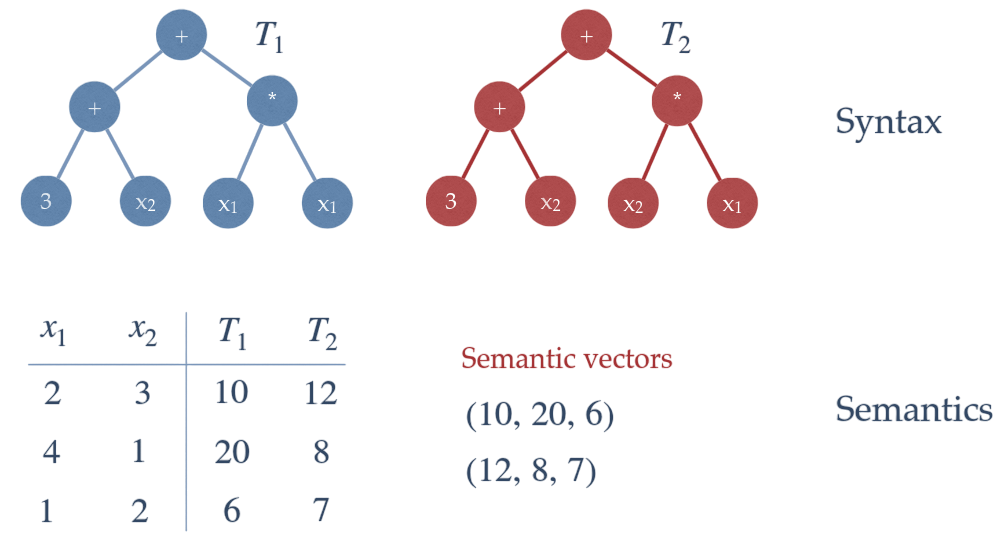
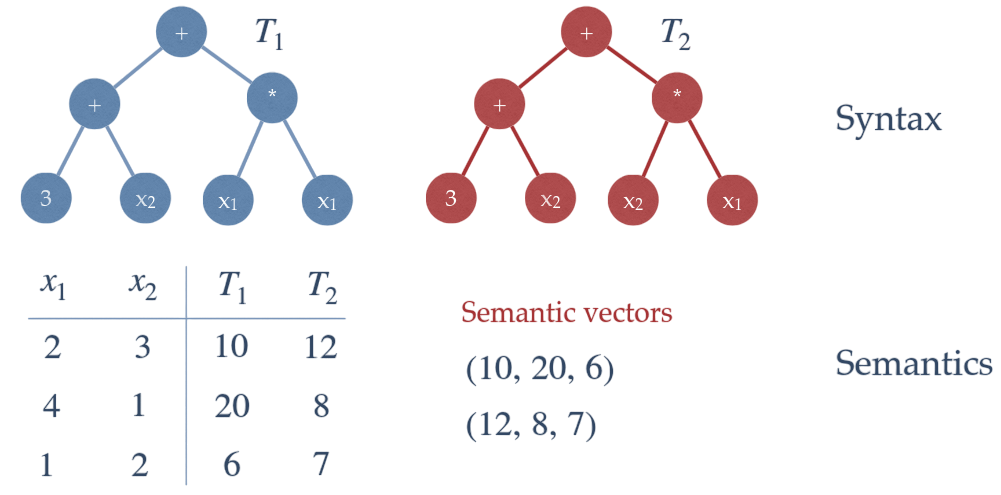
keep going on with gmo notes

diff --git a/Global and Multi-Objective Optimisation/chapters/ch7.tex b/Global and Multi-Objective Optimisation/chapters/ch7.tex
@@ -1,0 +1,219 @@
+\chapter{Estimation of Distribution Algorithms}\label{ch:eda}
+
+\section{From Implicit to Explicit Models}
+
+Traditional evolutionary algorithms, such as Genetic Algorithms (GAs), employ operators like selection, crossover, and mutation to navigate the search space. Collectively, these operators induce an \textit{implicit} model of solution quality: selection favors promising individuals, while crossover and mutation explore their neighborhoods to discover new candidates. However, this implicit modeling limits the algorithm's ability to directly capture and exploit the structure of high-quality solutions.
+
+In contrast, \bfit{Estimation of Distribution Algorithms (EDAs)}, also referred to as \bfit{Probabilistic Model-Building Genetic Algorithms (PMBGAs)}, adopt a fundamentally different strategy. Rather than relying on traditional genetic operators, EDAs construct an \textit{explicit} probabilistic model that characterizes the distribution of promising solutions identified thus far. This model is then used to sample a new population of candidate solutions, which subsequently informs the next iteration of model refinement. The evolutionary process is thereby reframed as a cycle of model construction, sampling, and iterative improvement.
+
+\subsection{Model Fitting via Classification}
+
+A principled approach to explicit modeling is to recast the problem as a classification task. Here, the objective is to train a machine learning classifier to discriminate between "good" and "bad" regions of the search space, using the fitness values of individuals in the current population as labels.
+
+\subsubsection{Learnable Evolution Models}
+The \bfit{Learnable Evolution Model (LEM)} framework formalizes this classification-based approach. Its iterative procedure can be summarized as follows:
+\begin{enumerate}
+    \item Execute several standard evolutionary steps to generate a diverse population.
+    \item Partition the population into two classes according to fitness: a "fit" set and an "unfit" set.
+    \item Train a classifier (e.g., decision tree, support vector machine, or neural network) to distinguish between fit and unfit individuals. This classifier serves as an explicit model of high-fitness regions in the search space.
+    \item Eliminate unfit individuals and generate new candidates by sampling from regions identified by the classifier as "fit."
+    \item Repeat this process until a predefined termination criterion is satisfied.
+\end{enumerate}
+
+\begin{figure}[H]
+    \centering
+    \includegraphics[width=0.7\textwidth]{assets/lem-classification.png}
+    \caption{\centering The classification process in a Learnable Evolution Model.}
+    \label{fig:lem_classification}
+\end{figure}
+
+\vspace{-1.5em}
+
+\subsubsection{Generating New Individuals}
+A key challenge in this approach is how to generate new individuals using the trained model. This depends on whether the model is \bfit{generative} or \bfit{discriminative}.
+\begin{itemize}
+    \item \bfit{Generative models} can directly produce new samples that conform to the learned data distribution.
+    \item \bfit{Discriminative models}, such as most classifiers, can only determine whether a given, existing individual belongs to the "fit" class or not.
+\end{itemize}
+Since classifiers are typically discriminative, two main sampling techniques are used:
+
+\begin{itemize}
+    \item \textbf{Rejection Sampling}: new individuals are generated randomly from the entire search space and are then passed to the classifier. If the classifier labels an individual as "fit," it is accepted into the new population; otherwise, it is rejected, and the process repeats. This method is simple but can be highly \textit{inefficient}, especially late in the search when the "fit" region may be very small compared to the entire space, leading to a high rejection rate.
+
+\begin{figure}[H]
+    \centering
+    \includegraphics[width=0.65\textwidth]{assets/rejection-sampling.png}
+    \label{fig:rejection_sampling}
+\end{figure}
+
+    \vspace{-1.5em}
+
+    \item \textbf{Region-Based Sampling}: New individuals are generated by sampling directly from regions of the search space identified as "fit" by the classifier. For classifiers such as decision trees, these regions correspond to explicit rules or hyper-rectangles. Sampling is restricted to these regions, improving efficiency by avoiding the generation of individuals from unpromising areas. The effectiveness of this method depends on the classifier's ability to define such regions.
+    
+    \begin{figure}[H]
+        \centering
+        \includegraphics[width=0.55\textwidth]{assets/region-based-sampling.png}
+        \label{fig:region_based_sampling}
+    \end{figure}
+
+    \vspace{-1.5em}
+\end{itemize}
+
+
+
+\section{Probabilistic Model-Based EDAs}
+Instead of using a classifier, the most common family of EDAs builds and samples from an explicit \bfit{probability distribution} that represents the distribution of promising individuals in the population.
+
+\subsection{Representing the Distribution of Promising Solutions}
+The core task of an EDA is to build a probabilistic model that captures the features of high-performing individuals. The primary challenge lies in creating a representation that is both expressive enough to guide the search effectively and compact enough to be computationally feasible. A full, explicit joint probability distribution is almost always intractable due to the curse of dimensionality. Several strategies have been developed to address this.
+
+\subsubsection{Histogram-Based Models}
+A conceptually simple way to model the distribution is to create a multi-dimensional histogram. The search space is partitioned into a grid of discrete hypercubes (or "bins"), and the model stores the average fitness or count of promising solutions that fall into each bin. New solutions can then be sampled from the bins with higher scores.
+
+However, this method's utility is severely limited by its exponential complexity. If each of the $n$ dimensions of the search space is divided into just $d$ intervals, the total number of hypercubes is $d^n$. This number grows so rapidly that the approach becomes unfeasible even for a small number of dimensions, necessitating more compact representations.
+
+\subsubsection{Gaussian Mixture Models for Continuous Spaces}
+For problems in continuous domains (e.g., $\mathbb{R}^n$), a more scalable approach is to model the probability distribution of good solutions as a \bfit{Gaussian Mixture Model (GMM)}. Instead of a discrete grid, the distribution is represented as the sum of a fixed number, $b$, of multivariate Gaussian distributions. This allows the model to represent multiple promising regions in the search space simultaneously.
+
+A full $n$-dimensional Gaussian distribution is defined by:
+\begin{itemize}
+    \item A mean vector $\vec{\mu}$ of length $n$.
+    \item A covariance matrix $\Sigma$ of size $n \times n$, which captures the dependencies between variables.
+\end{itemize}
+While more compact than a histogram, the space required to store the full covariance matrix for each component is $n^2$. The total space complexity to represent the distribution as a sum of $b$ Gaussians is $b(n + n^2)$, which can still be prohibitive if all variable interactions are modeled.
+
+\subsubsection{Marginal Distribution Models}
+To drastically reduce complexity, many EDAs adopt a powerful simplifying assumption: that the variables (genes) are \bfit{mutually independent}. This assumption allows the high-dimensional joint probability distribution to be factorized into the product of $n$ one-dimensional \bfit{marginal distributions}.
+$$ P(x_1, \ldots, x_n) = P_1(x_1) \cdot P_2(x_2) \cdots P_n(x_n) $$
+This is the foundation of \bfit{univariate EDAs}. Under this model, the complexity of a Gaussian mixture is greatly reduced. Each of the $n$ marginal distributions is a 1D Gaussian mixture, which only requires storing a mean and a variance for each of its $b$ components. The total space complexity falls from $O(b n^2)$ to a much more manageable $O(b n)$.
+
+\subsubsection{Models for Finite Discrete Spaces}
+The concept of using marginal distributions extends naturally to discrete domains.
+\begin{itemize}
+    \item If a gene can take one of $k$ possible discrete values, its marginal distribution can be represented by a probability vector of length $k-1$.
+    \item For the very common case of \bfit{Boolean spaces} ($\{0,1\}^n$), the model is particularly simple. The marginal distribution for each gene can be described by a single value: the probability of that gene being 1. The entire probabilistic model is thus captured by a single $n$-dimensional vector of probabilities, which is extremely compact.
+\end{itemize}
+
+% This figure combines the four concepts from your slide into one.
+% You would need to crop the original image into four separate files.
+\begin{figure}[H]
+    \centering
+    \begin{minipage}[t]{0.48\textwidth}
+        \centering
+        \includegraphics[width=\linewidth]{assets/eda-histogram.png}
+        \subcaption{Histogram-based model.}
+    \end{minipage}%
+    \hfill
+    \begin{minipage}[t]{0.48\textwidth}
+        \centering
+        \includegraphics[width=\linewidth]{assets/eda-gaussian.png}
+        \subcaption{Gaussian Mixture Model.}
+    \end{minipage}
+    
+    \vspace{0.5cm}
+    
+    \begin{minipage}[t]{0.48\textwidth}
+        \centering
+        \includegraphics[width=\linewidth]{assets/eda-marginal.png}
+        \subcaption{Marginal distributions from a joint distribution.}
+    \end{minipage}%
+    \hfill
+    \begin{minipage}[t]{0.48\textwidth}
+        \centering
+        \includegraphics[width=\linewidth]{assets/eda-discrete.png}
+        \subcaption{Marginal distributions for a finite discrete space.}
+    \end{minipage}
+    \caption{Four different approaches to modeling the distribution of promising solutions in EDAs.}
+    \label{fig:eda_distribution_models}
+\end{figure}
+
+\vspace{-1em}
+
+\subsection{Univariate EDAs}
+\bfit{Univariate EDAs} adopt a standard approach in which the high-dimensional distribution over all genes is simplified by marginalizing everything to one dimension by modeling only the distribution of each gene individually. This means we are making a strong assumption: the value of each gene can be determined independently from the values of the other genes. While this independence assumption is often not strictly true in real-world problems, it allows for very simple and computationally efficient algorithms. We will examine two classic univariate EDA algorithms:
+\begin{itemize}
+    \item \bfit{Population-Based Incremental Learning (PBIL)}
+    \item \bfit{Compact Genetic Algorithm (cGA)}
+\end{itemize}
+
+\subsubsection{Population-Based Incremental Learning (PBIL)}
+
+\bfit{Population-Based Incremental Learning (PBIL)} is a foundational univariate EDA that iteratively refines a probabilistic model to guide the search for optimal solutions. 
+
+For a problem of dimension $n$, PBIL maintains a vector of marginal distributions $D_1, D_2, \ldots, D_n$. The initial distribution is typically uniform. At each iteration:
+
+\begin{itemize}
+    \item A population of new individuals is generated by independently sampling each gene $j$ from $D_j$.
+    \item The $b$ fittest individuals are selected from the population (truncated selection).
+    \item For each gene $j$, let $N_j$ denote the empirical distribution of gene $j$ among the $b$ selected individuals.
+    \item The probability vector is updated towards the observed distribution in the selected set:
+    $$
+        D_j \leftarrow (1-\alpha) D_j + \alpha N_j
+    $$
+    where $\alpha \in [0,1]$ is a learning rate that controls the speed of adaptation.
+\end{itemize}
+
+This process is repeated until a stopping criterion is met.
+
+Population-Based Incremental Learning (PBIL) can be \bfit{extended to continuous domains}, such as $\mathbb{R}^n$, by representing each marginal distribution as a Gaussian distribution parameterized by a mean $\mu_{D_j}$ and a variance $\sigma^2_{D_j}$. After the selection step, for each gene $j$, the sample mean $\mu_{N_j}$ and sample variance $\sigma^2_{N_j}$ are computed from the selected individuals:
+$$
+\mu_{N_j} = \frac{1}{|P|} \sum_{P_i \in P} P_{i,j}
+\qquad
+\sigma^2_{N_j} = \frac{1}{|P|-1} \sum_{P_i \in P} (P_{i,j} - \mu_{N_j})^2
+$$
+
+The parameters of the Gaussian are then updated according to the following rules:
+$$
+    \mu_{D_j} \leftarrow (1-\alpha)\mu_{D_j} + \alpha \mu_{N_j}
+,\qquad 
+    \sigma^2_{D_j} \leftarrow (1-\alpha)\sigma^2_{D_j} + \alpha \sigma^2_{N_j}
+$$
+This approach enables PBIL to adapt both the central tendency and the dispersion of each marginal distribution, thereby facilitating efficient exploration and exploitation in continuous search spaces.
+
+PBIL can also be extended to discrete spaces with more than two values per gene by representing each marginal as a categorical distribution and updating each probability component accordingly. In all cases, the learning rate $\alpha$ allows for gradual adaptation, balancing exploration and exploitation.
+
+\subsubsection{Compact Genetic Algorithm (cGA)}
+
+The \bfit{Compact Genetic Algorithm (cGA)} is a streamlined EDA designed for Boolean search spaces. Unlike traditional genetic algorithms, cGA does not maintain an explicit population. Instead, it iteratively updates a probability vector through pairwise competitions.
+
+\begin{description}
+    \item[1. Probability Vector:] Maintain a vector $D$, where $D_j$ is the probability of gene $j$ being \texttt{1}.
+    \item[2. Sampling:] At each iteration, sample two individuals, $P_i$ and $P_k$, independently from $D$.
+    \item[3. Competition:] Evaluate $P_i$ and $P_k$ and identify the winner ($U$) and loser ($V$) based on fitness.
+    \item[4. Update:] For each gene $j$ where $U_j \neq V_j$, adjust $D_j$ by a small step $1/d$ such that:
+    \begin{align*}
+        &\text{If } U_j = 1 \text{ and } V_j = 0: \quad D_j \leftarrow D_j + 1/d \\
+        &\text{If } U_j = 0 \text{ and } V_j = 1: \quad D_j \leftarrow D_j - 1/d
+    \end{align*}
+\end{description}
+
+Repeat this process for a fixed number of iterations or until convergence. The cGA thus efficiently evolves the probability vector to represent promising solutions without explicitly storing a population.
+
+\subsection{Issues of Univariate EDAs and Beyond}
+
+Univariate EDAs assume that the distribution of each gene can be found independently from all the other genes: they do not model any linkage or interaction between genes. While this assumption simplifies the model, it is often unrealistic: in many real-world problems, genes interact in complex ways, and optimizing them independently is not effective.
+
+\begin{itemize}
+    \item \textbf{Gene independence is rarely true:} If genes were truly independent, we could optimize each one separately. In practice, dependencies between genes are common and important.
+    \item \textbf{Local optima:} Because univariate EDAs cannot capture these dependencies, they may get stuck in local optima---situations where changing a single gene does not improve the solution, but changing several together would.
+    \item \textbf{Need for multivariate models:} To address this, \bfit{multivariate EDAs} have been developed. These use more advanced probabilistic models that can represent and exploit dependencies between variables, allowing for more effective search in complex landscapes.
+\end{itemize}
+
+One of the most well-known multivariate EDAs is the \bfit{Bayesian Optimization Algorithm (BOA)}. Unlike PBIL, which uses marginal distributions, BOA employs a Bayesian network to model dependencies between genes. This network is used to generate new samples and is updated at each generation.
+
+\begin{tipsblock}[BOA: Further Reading]
+
+    The following paper \cite{Pelikan1999} describes the BOA algorithm:
+
+    \vspace{0.5em}
+
+    \begin{center}
+        Pelikan, Martin, David E. Goldberg, and Erick Cantú-Paz. 
+
+        \textit{``BOA: The Bayesian optimization algorithm.''}
+
+        Proceedings of the genetic and evolutionary computation conference GECCO-99.
+        
+        Vol. 1. 1999.
+    \end{center}
+\end{tipsblock}

diff --git a/Global and Multi-Objective Optimisation/chapters/ch6.tex b/Global and Multi-Objective Optimisation/chapters/ch6.tex
@@ -6,8 +6,8 @@ Traditional Genetic Programming operators, such as subtree crossover and mutatio
 
 \section{Geometric Operators on Metric Spaces}
 
-The foundation of GSGP lies in defining the space of solutions as a \bfit{metric space}. A metric space is a set $S$ equipped with a distance function (or metric) $d: S \times S \to \mathbb{R}^+$, which satisfies four key properties for any $x, y, z \in S$:
-\begin{itemize}
+The foundation of GSGP lies in defining the space of solutions as a \bfit{metric space}. A metric space is a set $S$ equipped with a \bfit{distance function} (or metric) $d: S \times S \to \mathbb{R}^+$, which satisfies four key properties for any $x, y, z \in S$:
+\begin{itemize}[noitemsep]
     \item \textbf{Identity:} $d(x, y) = 0 \iff x = y$ The distance is zero if and only if the points are identical.
     \item \textbf{Symmetry:} $d(x, y) = d(y, x)$ The distance from x to y is the same as from y to x.
     \item \textbf{Non-negativity:} $d(x, y) \ge 0$ Distance is always non-negative.
@@ -16,16 +16,16 @@ The foundation of GSGP lies in defining the space of solutions as a \bfit{metric
 
 Within a metric space, we can define geometric concepts like segments and balls:
 \begin{itemize}
-    \item The \bfit{segment} $S(x, y)$ between two points $x$ and $y$ is the set of all points $z$ for which the triangular inequality holds with equality:
+    \item A \bfit{segment} $S(x, y)$ between two points $x$ and $y$ is the set of all points $z$ for which holds:
     $$ S(x, y) = \{z \in S \mid d(x, z) + d(z, y) = d(x, y)\} $$
-    \item The \bfit{ball} $B(x, r)$ of radius $r$ centered at a point $x$ is the set of all points $y$ whose distance from $x$ is at most $r$:
+    \item A \bfit{ball} $B(x, r)$ of radius $r$ centered in $x$ is the set of all points $y$ whose distance from $x$ is at most $r$:
     $$ B(x, r) = \{y \in S \mid d(x, y) \le r\} $$
 \end{itemize}
 
 \begin{figure}[H]
     \centering
     \includegraphics[width=0.6\textwidth]{assets/metric-space.png}
-    \caption{\centering Segments and balls in different metric spaces. Left: In Euclidean space ($\mathbb{R}^2$), the segment is a line and the ball is a circle. Right: In the space of binary strings $\{0,1\}^3$ with Hamming distance, the segment between two points is the set of strings on the minimal path along the hypercube's edges, and the ball $B(x,1)$ is the set containing $x$ and its immediate neighbors.}
+    \caption{\centering Segments and balls in different metric spaces (Euclidean, ($\mathbb{R}^2$) and Hamming, $\{0,1\}^3$)}
     \label{fig:metric_spaces}
 \end{figure}
 
@@ -51,21 +51,29 @@ The standard subtree crossover in GP is \bfit{not geometric}. A simple counterex
 
 \begin{figure}[H]
     \centering
-    % \includegraphics[width=0.8\textwidth]{assets/gp-not-geometric.png}
-    \caption{\centering An example demonstrating that standard GP subtree crossover is not geometric. Crossing a tree with itself can produce a new tree, which is impossible for a true geometric operator.}
+    \includegraphics[width=0.7\textwidth]{assets/gp-not-geometric.png}
+    \caption{\centering An example demonstrating that standard GP subtree crossover is not geometric. Crossing a tree with itself produces a new tree, which is impossible for a geometric operator.}
     \label{fig:gp_not_geometric}
 \end{figure}
 
-\section{From Syntactic to Semantic Space}
-The issue with standard GP operators is that they are defined on the \bfit{syntactic space} (the space of all possible program trees), but what we truly care about is the \bfit{semantic space} (the space of all possible program behaviors).
-The \bfit{semantics} of a program can be defined as the vector of its outputs produced for a given finite set of fitness cases (inputs).
+\section{Geometric Semantic Operators}
+
+Standard GP operators act on the \bfit{syntactic space} (all possible program trees), but what matters is the \bfit{semantic space} (all possible program behaviors).
+A program's \bfit{semantics} are its output vector on a given set of fitness cases (inputs).
+
+\vspace{-0.5em}
 
 \begin{figure}[H]
     \centering
-    \includegraphics[width=0.8\textwidth]{assets/syntax-semantics.png}
+    \includegraphics[width=0.65\textwidth]{assets/syntax-semantics.png}
+
+    \vspace{-0.5em}
+
     \caption{\centering The distinction between syntax and semantics. Two different trees, $T_1$ and $T_2$ (different syntax), produce two different vectors of outputs for the same set of inputs (different semantics).}
     \label{fig:syntax_vs_semantics}
 \end{figure}
+
+\vspace{-1.5em}
 
 The core idea of GSGP is to design operators that are geometric in the \textit{semantic space}, not the syntactic one. This requires:
 \begin{enumerate}
@@ -73,21 +81,25 @@ The core idea of GSGP is to design operators that are geometric in the \textit{s
     \item Designing new crossover and mutation operators that construct an offspring tree whose \textit{semantics} are guaranteed to lie on the segment between the parent semantics (for crossover) or in a ball around the parent's semantics (for mutation).
 \end{enumerate}
 
-\section{Geometric Semantic Operators}
-
 \subsection{Geometric Semantic Crossover (GSC)}
 GSC generates an offspring $T_{off}$ whose semantics are a linear interpolation of the semantics of its parents, $T_1$ and $T_2$. This is achieved by constructing the offspring tree as:
 $$
     T_{off} = (R \times T_1) + ((1 - R) \times T_2)
 $$
-Where $R$ is a randomly generated program tree whose outputs are guaranteed to be in the range $[0, 1]$. This construction ensures that for any input, the output of $T_{off}$ will be on the segment between the outputs of $T_1$ and $T_2$.
+Where $R$ is a randomly generated program tree whose outputs are guaranteed to be in the range $[0, 1]$. For any input, the output of $T_{off}$ will be on the segment between the outputs of $T_1$ and $T_2$.
+
+\vspace{-0.5em}
 
 \begin{figure}[H]
     \centering
-    \includegraphics[width=0.9\textwidth]{assets/gsc-crossover.png}
-    \caption{\centering The structure of Geometric Semantic Crossover. The offspring tree is a composition of the parent trees $T_1$ and $T_2$ and a random tree $R$.}
+    \includegraphics[width=0.6\textwidth]{assets/gsc-crossover.jpg}
+
+    \vspace{-0.5em}
+    \caption{\centering The structure of Geometric Semantic Crossover.}
     \label{fig:gsc_crossover}
 \end{figure}
+
+\vspace{-1.5em}
 
 The effect on the semantic space is that the offspring's behavior is bounded by the behavior of its parents, providing a highly controlled and exploitative search.
 
@@ -100,12 +112,21 @@ Where $m$ is the \bfit{mutation step} (a constant that defines the mutation radi
 
 \begin{figure}[H]
     \centering
-    \includegraphics[width=0.9\textwidth]{assets/gsm-mutation.png}
+    \includegraphics[width=0.7\textwidth]{assets/gsm-mutation.png}
     \caption{\centering The structure of Geometric Semantic Mutation. The offspring tree is created by adding a scaled random component (controlled by mutation step $m$) to the parent tree $T_1$.}
     \label{fig:gsm_mutation}
 \end{figure}
+
+\vspace{-1.5em}
 
 \section{Challenges and Advancements in GSGP}
 While semantically powerful, GSGP faces a significant practical challenge: the trees it produces grow exponentially with each generation. The formula for GSC, for example, combines three trees to make one, leading to rapid and unsustainable bloat.
 
 This has led to the development of more advanced implementations like \bfit{Fast GSGP}, which use techniques such as \textbf{subtree sharing} and optimized data structures to manage this complexity, making the approach viable in practice. These methods have shown that GSGP can significantly outperform standard GP on many benchmark problems, especially in terms of generalization to unseen data.
+
+\begin{figure}[H]
+    \centering
+    \includegraphics[width=0.7\textwidth]{assets/fast-gsgp.png}
+    \caption{\centering Fast GSGP illustration.}
+    \label{fig:fast_gsgp}
+\end{figure}
